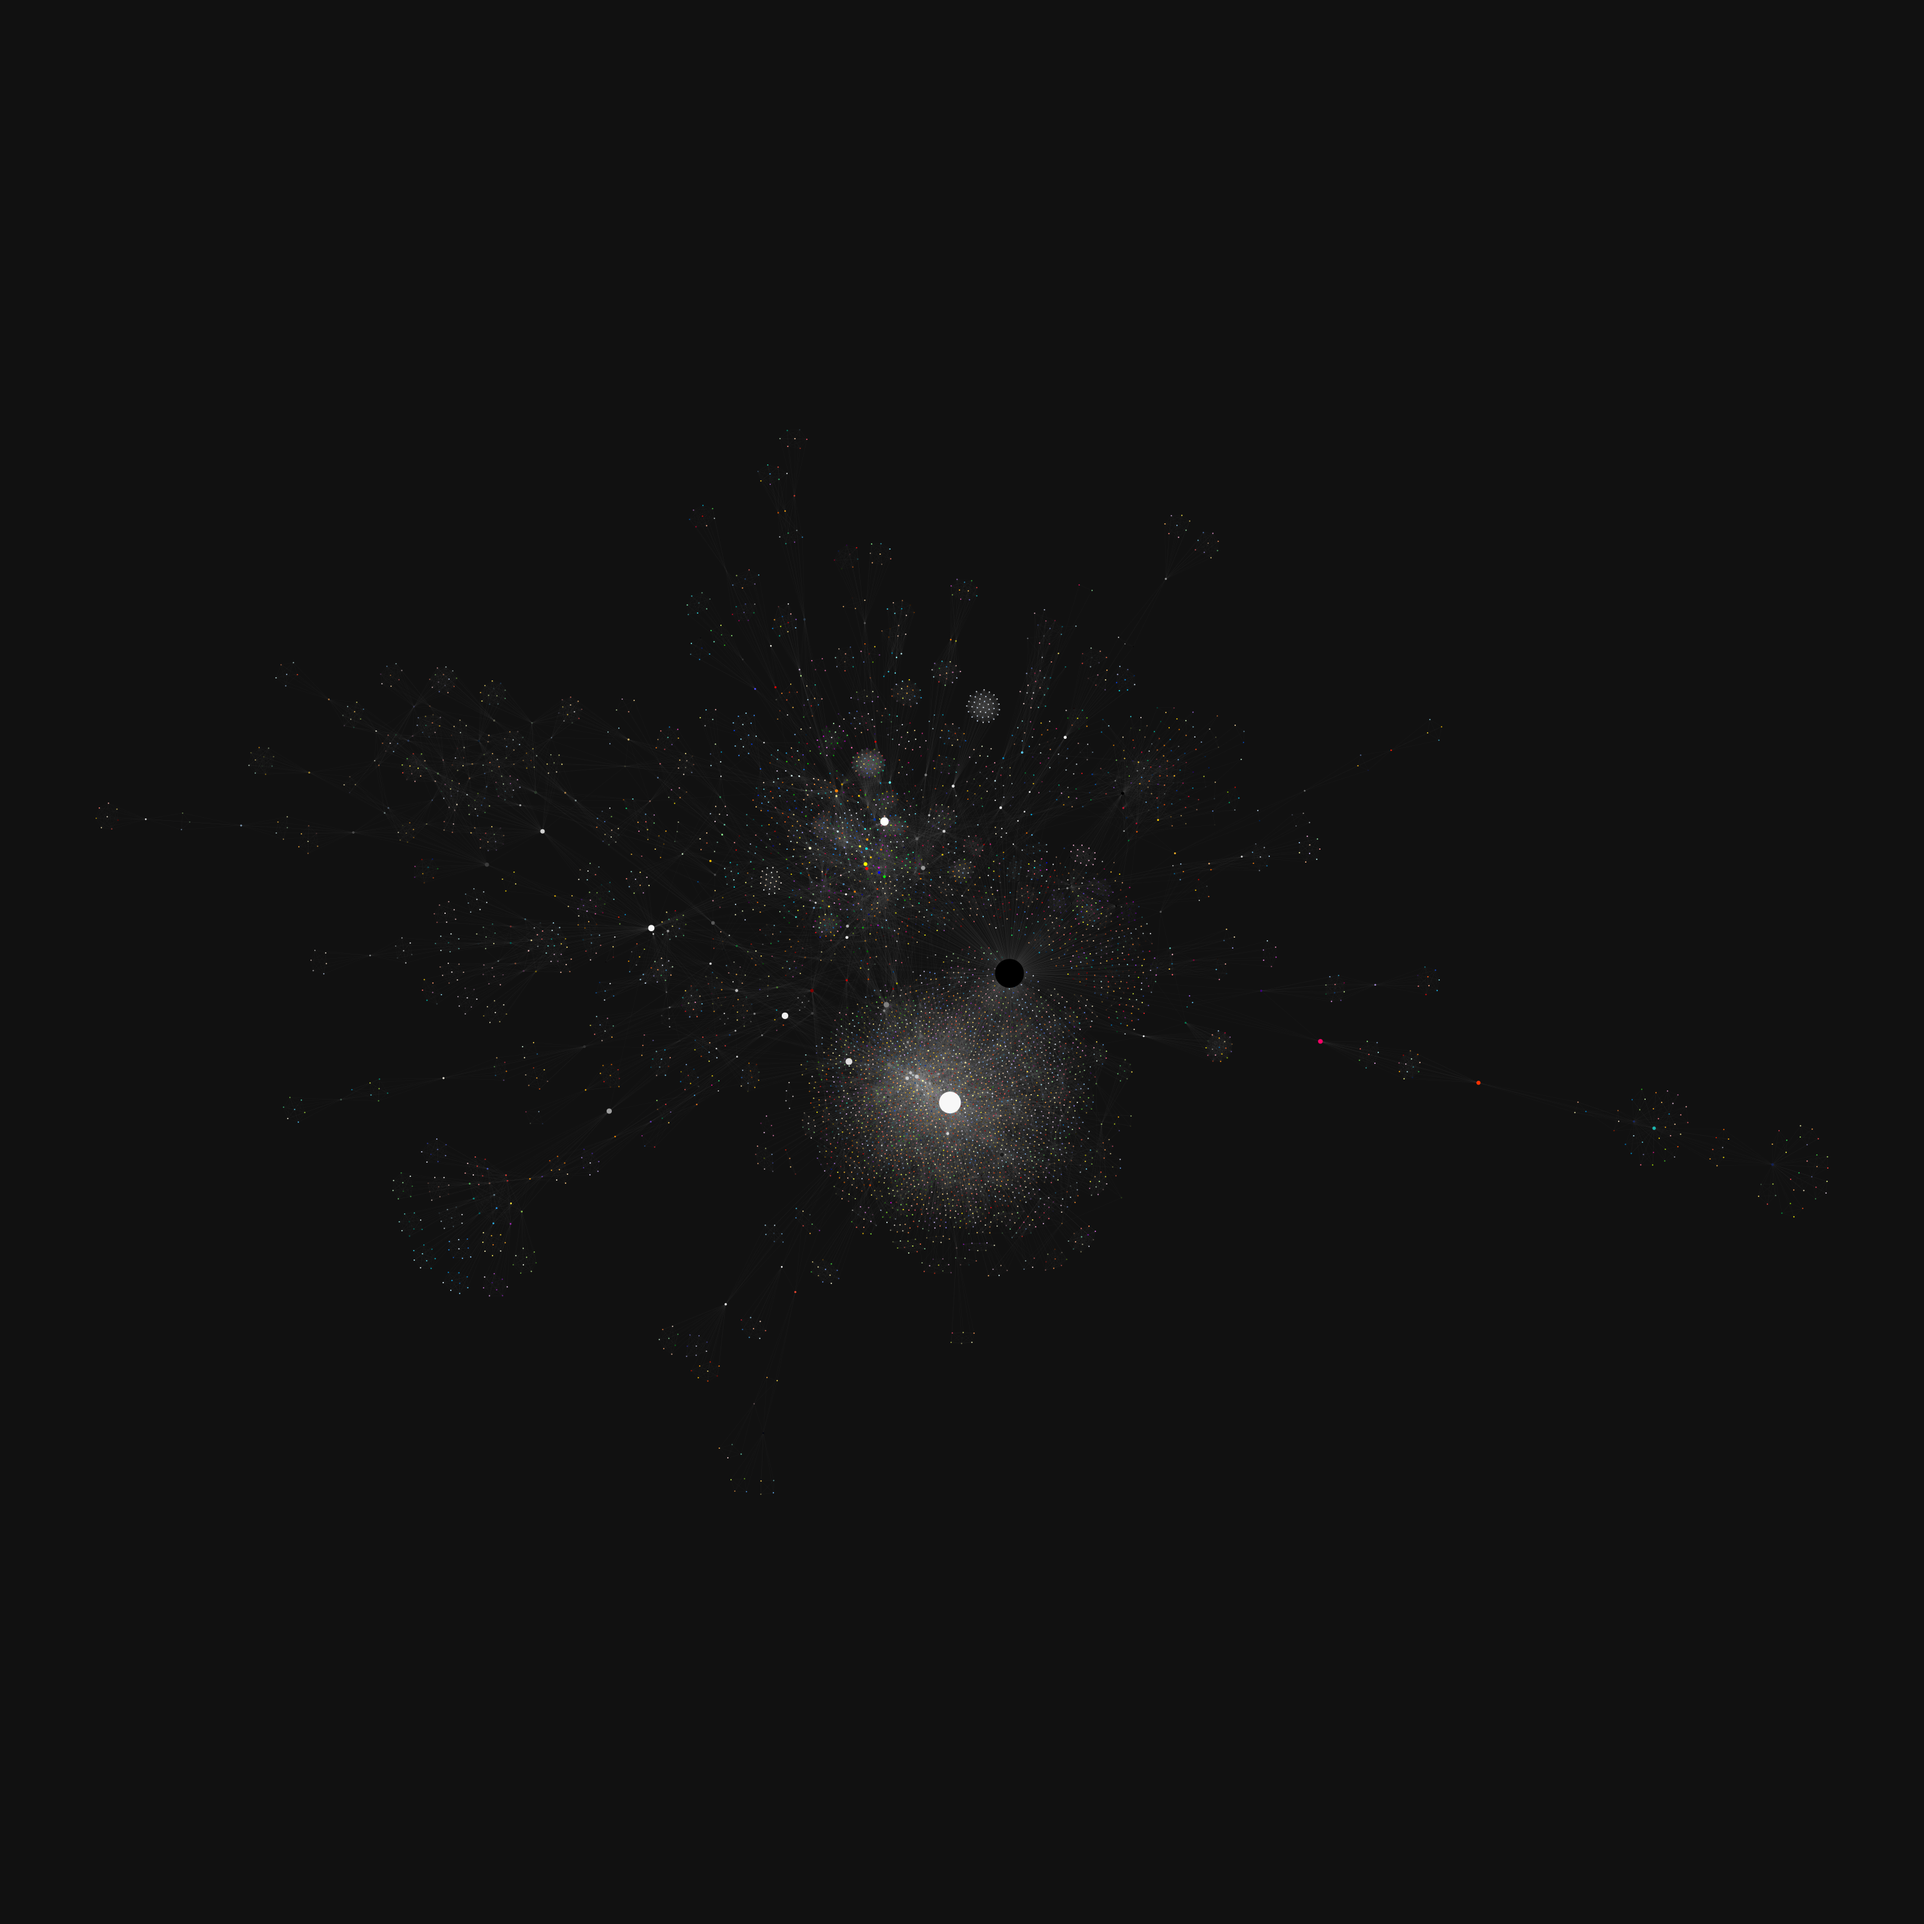
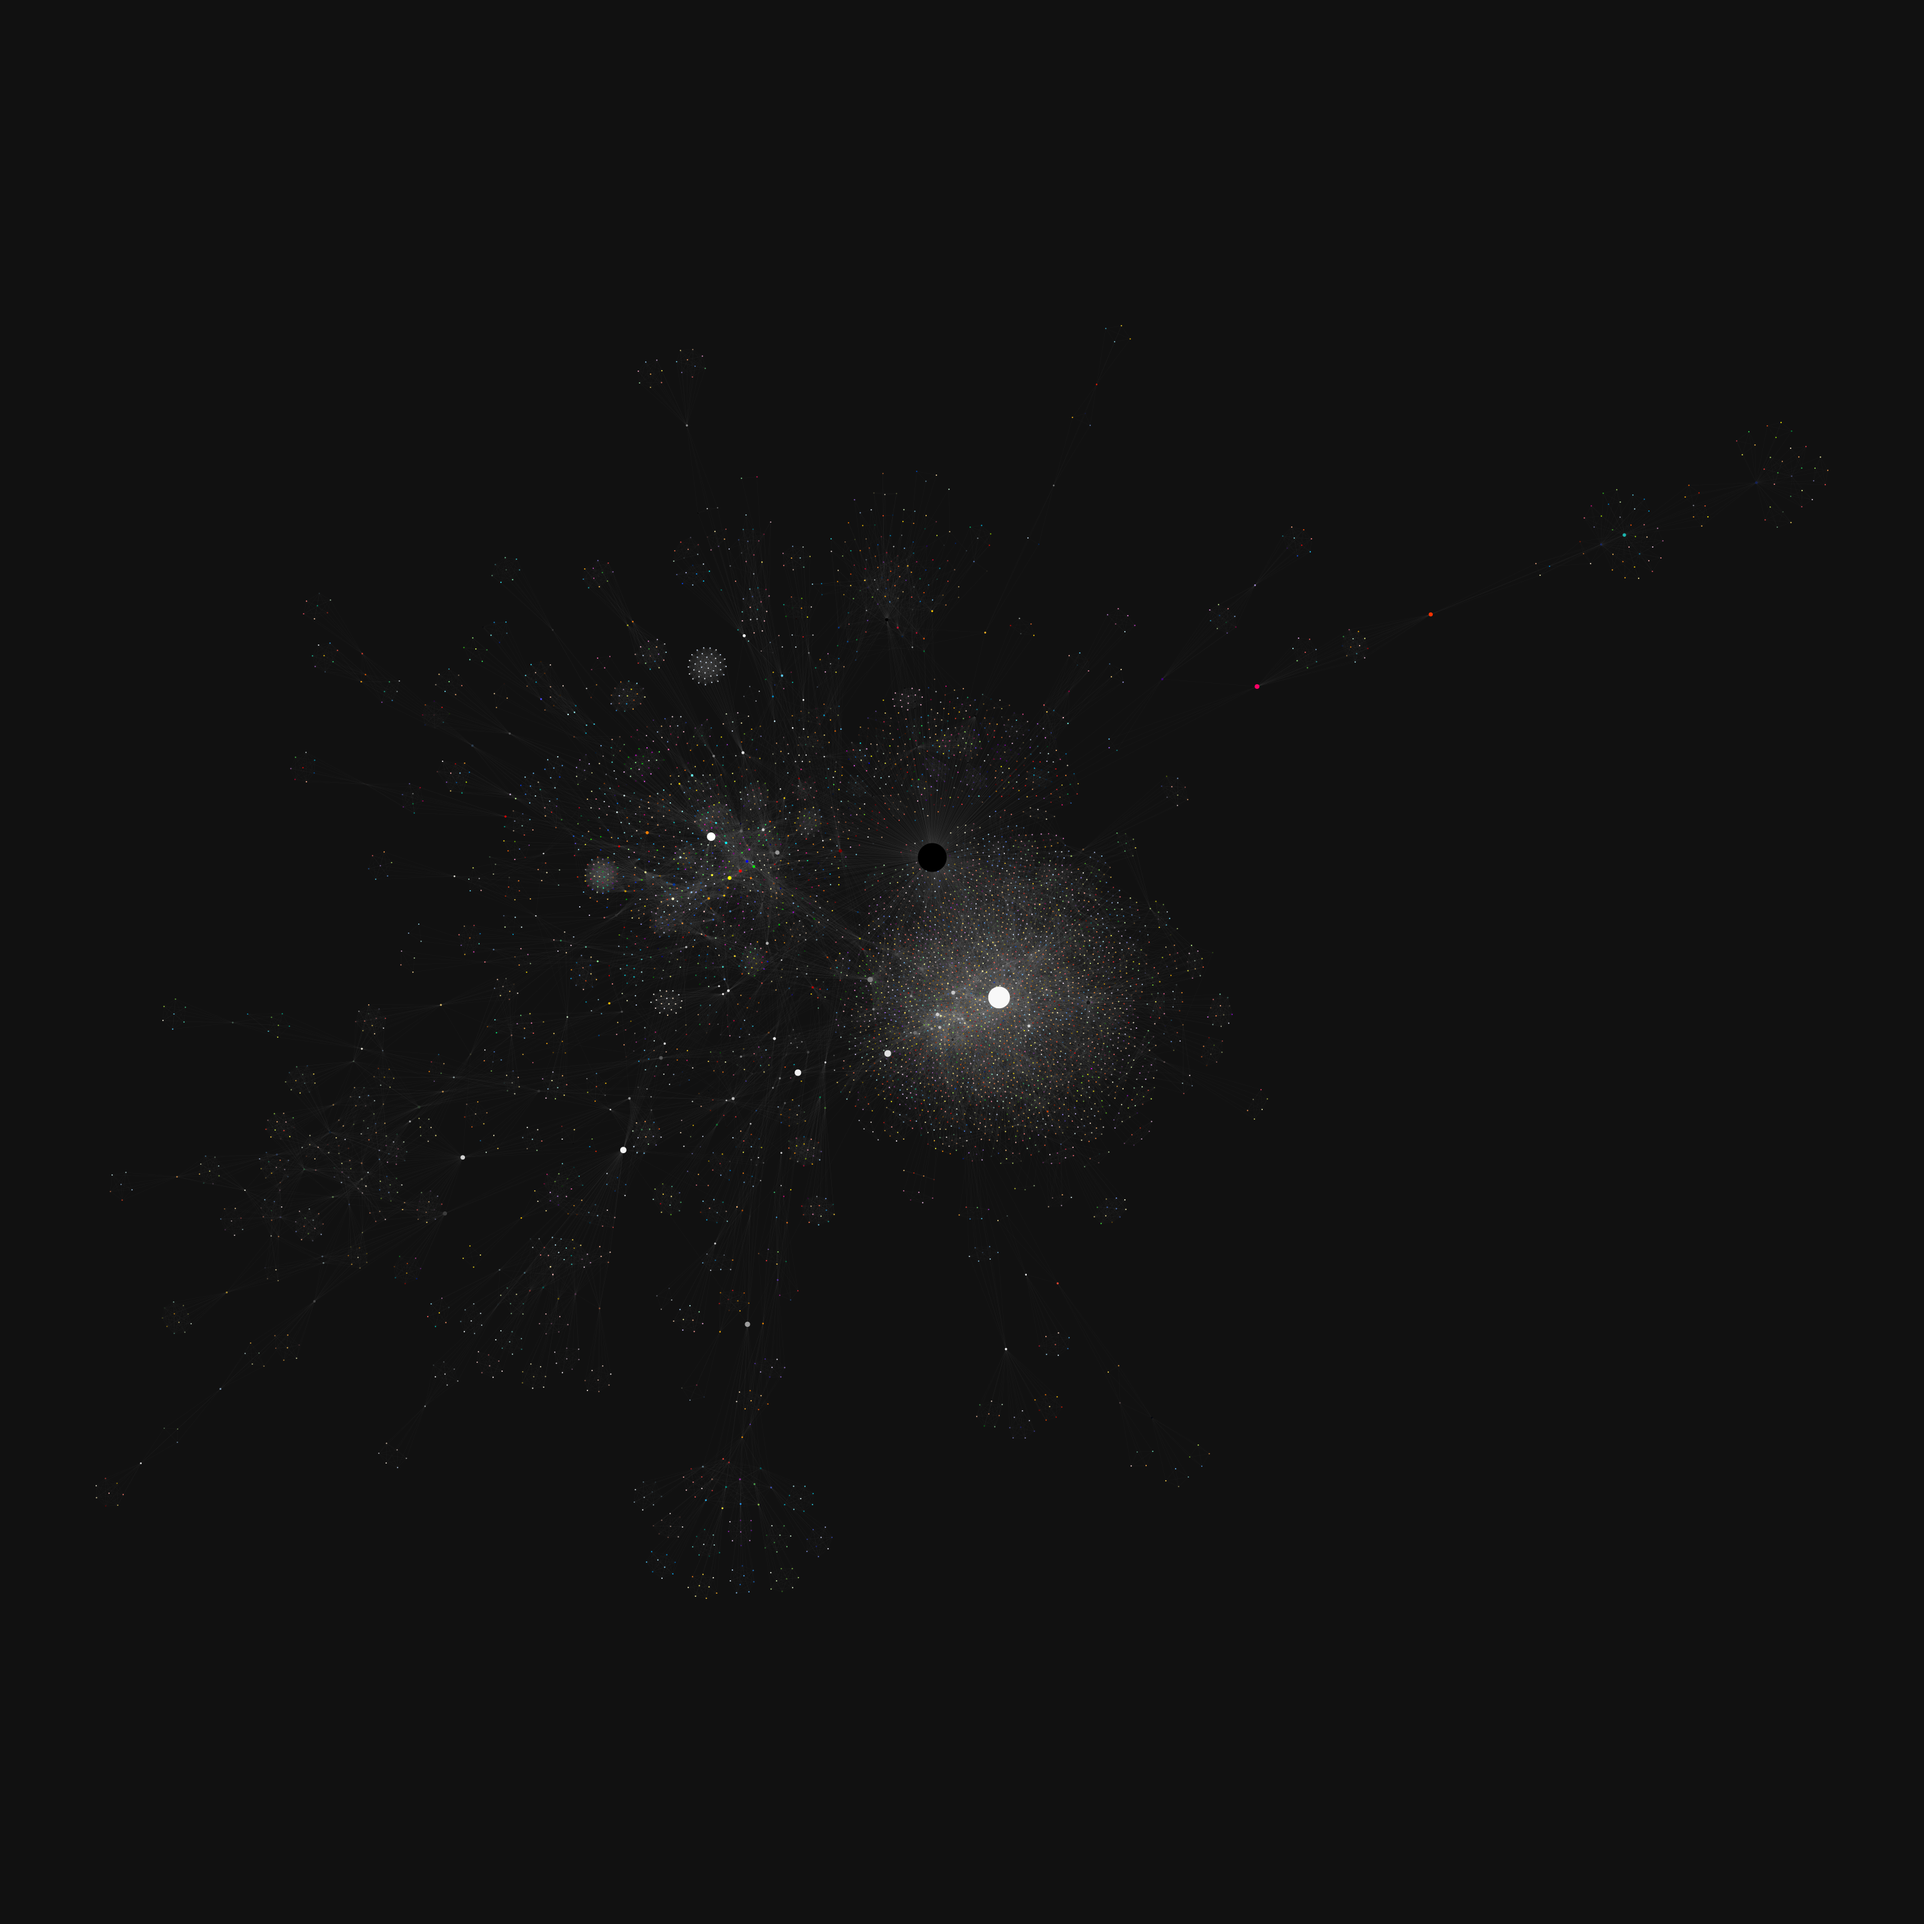
add README

Changed region(s): [[0.31, 0.372, 0.589, 0.62], [0.496, 0.341, 0.527, 0.372], [0.341, 0.341, 0.372, 0.372]]

diff --git a/README.md b/README.md
@@ -1,0 +1,13 @@
+# Color Co-occurrence Network
+
+Color palettes connect colors and different color palettes may share some of the same colors. Hence, this can be seen as a network. What does that network look like?
+
+![Color co-occurrence network](color_network.png)
+
+To answer my curiosity, I built this. A network of colors built from the [pypalettes](https://github.com/JosephBARBIERDARNAL/pypalettes) dataset: two colors are linked when they appear together in the same palette. Each node is drawn in its own color and sized by its centrality.
+
+Run:
+
+```bash
+python data.py && python network.py
+```
